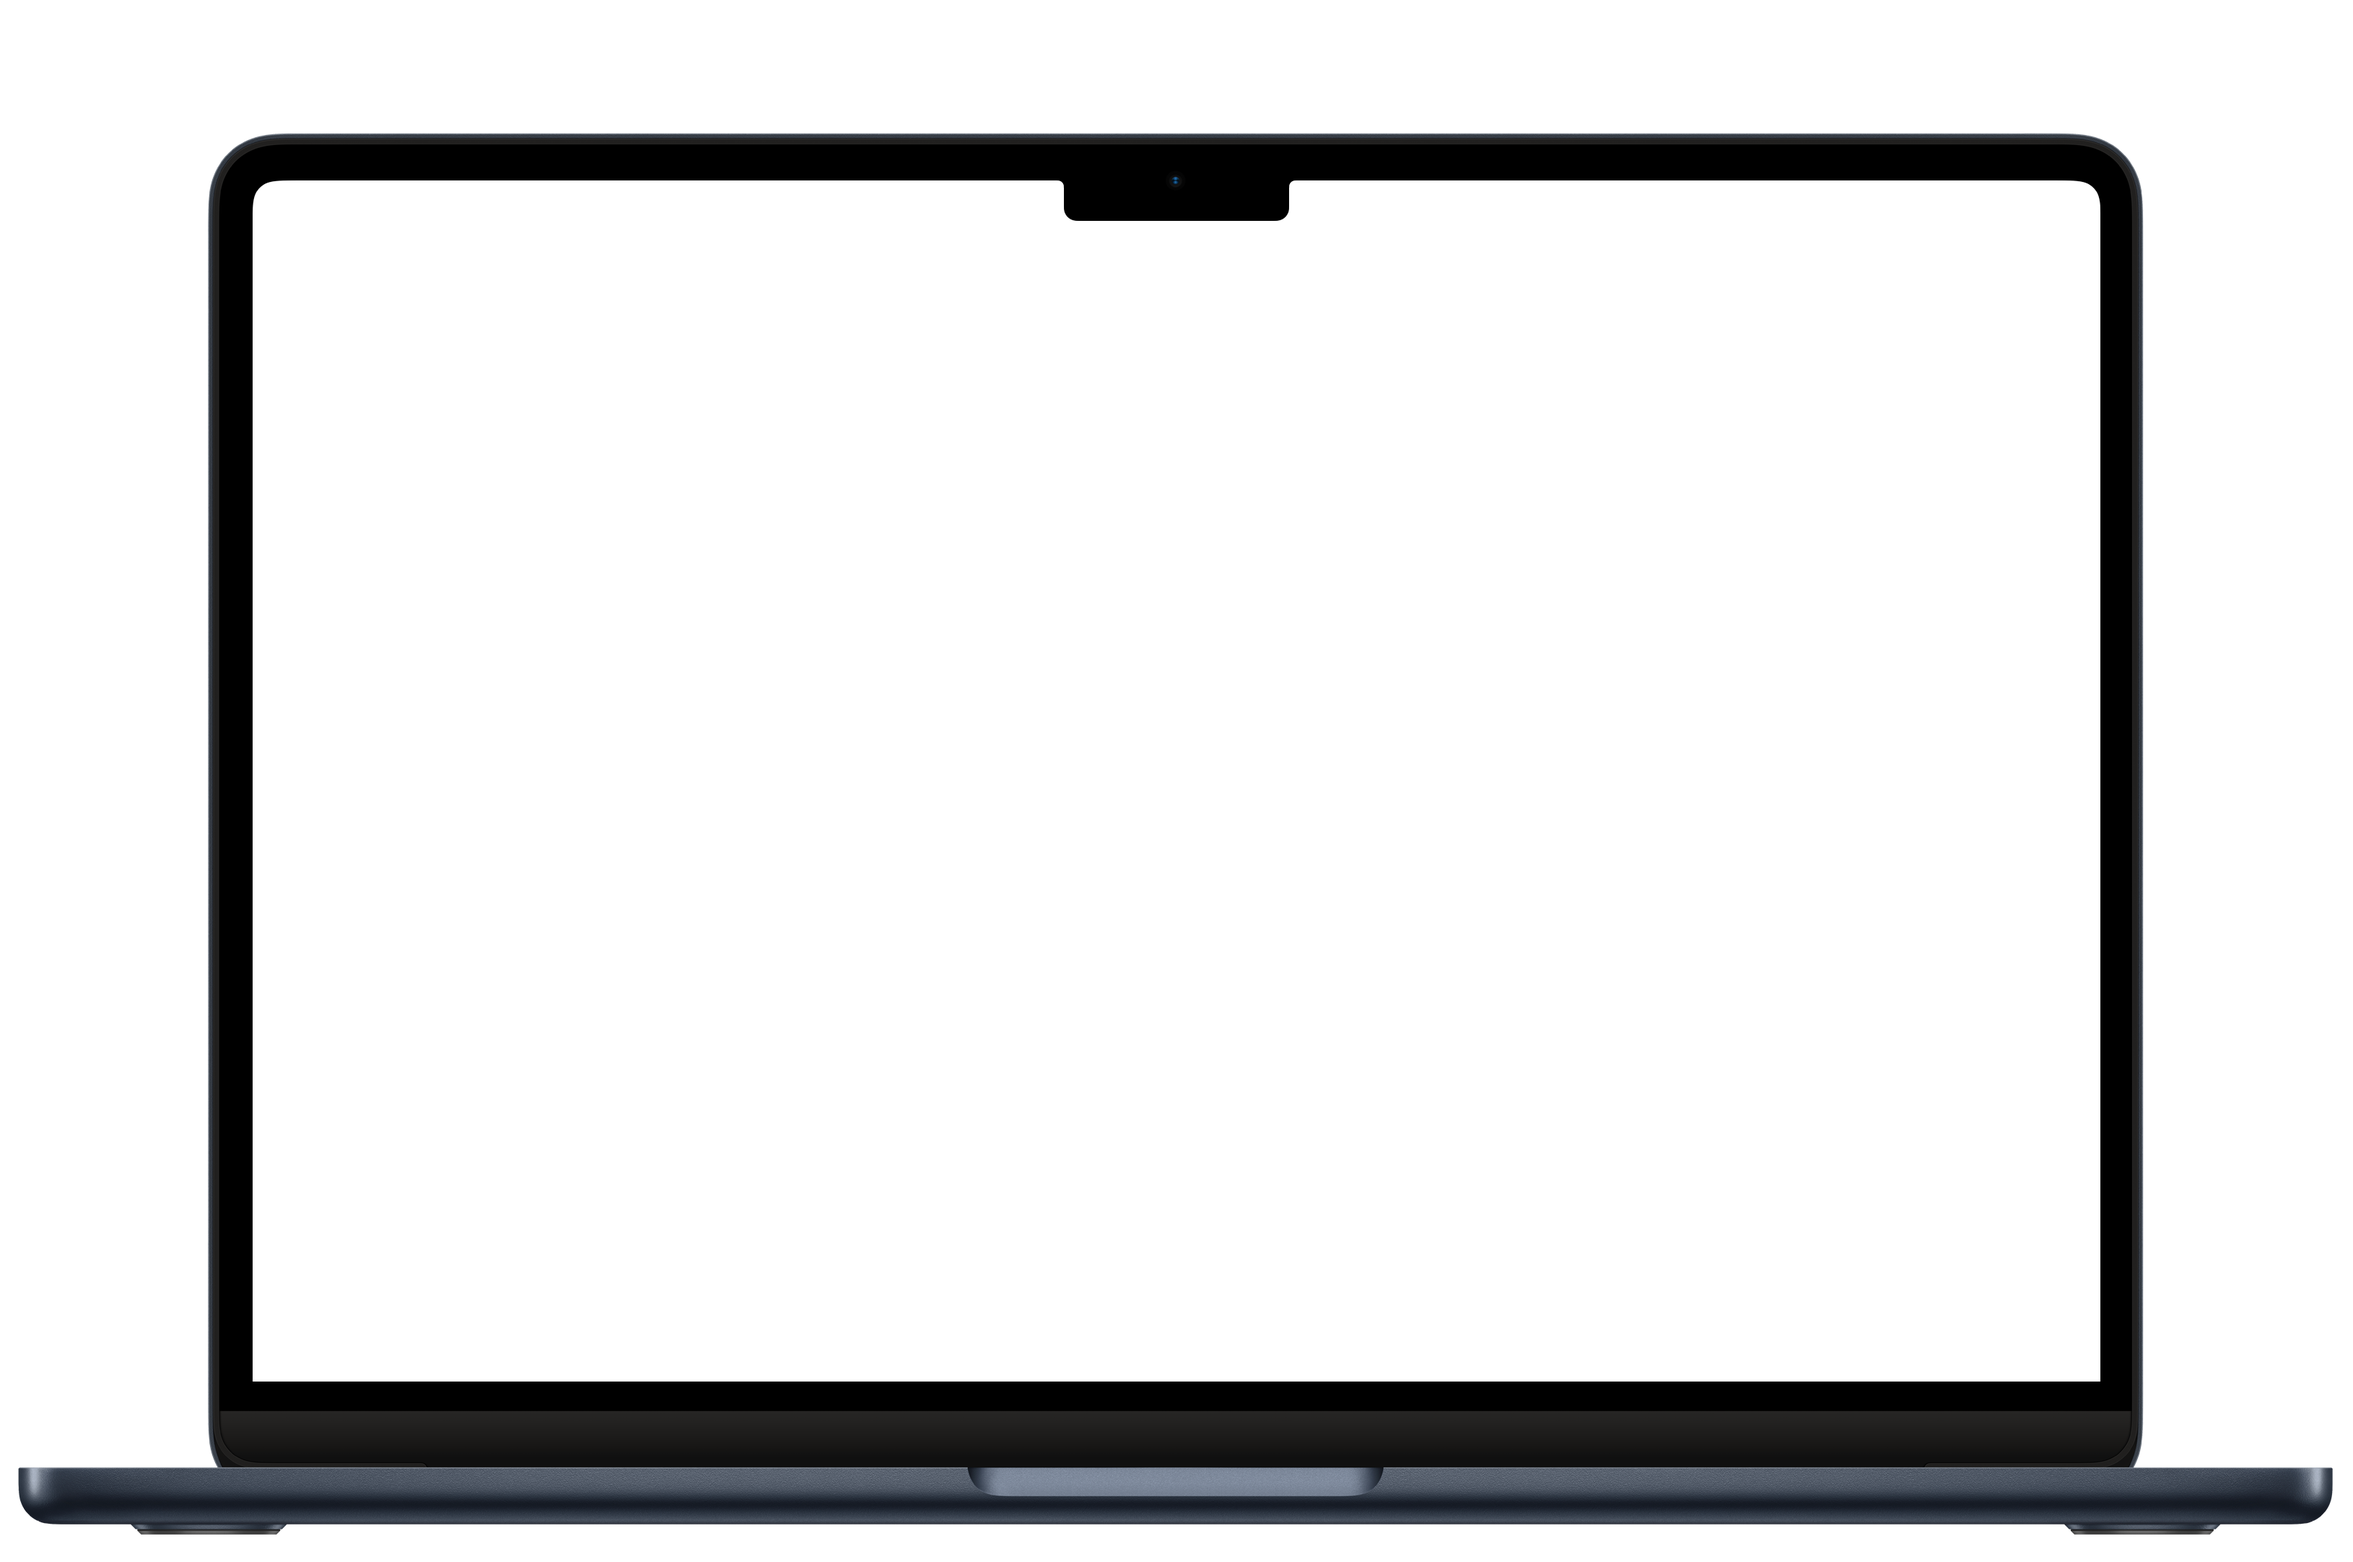
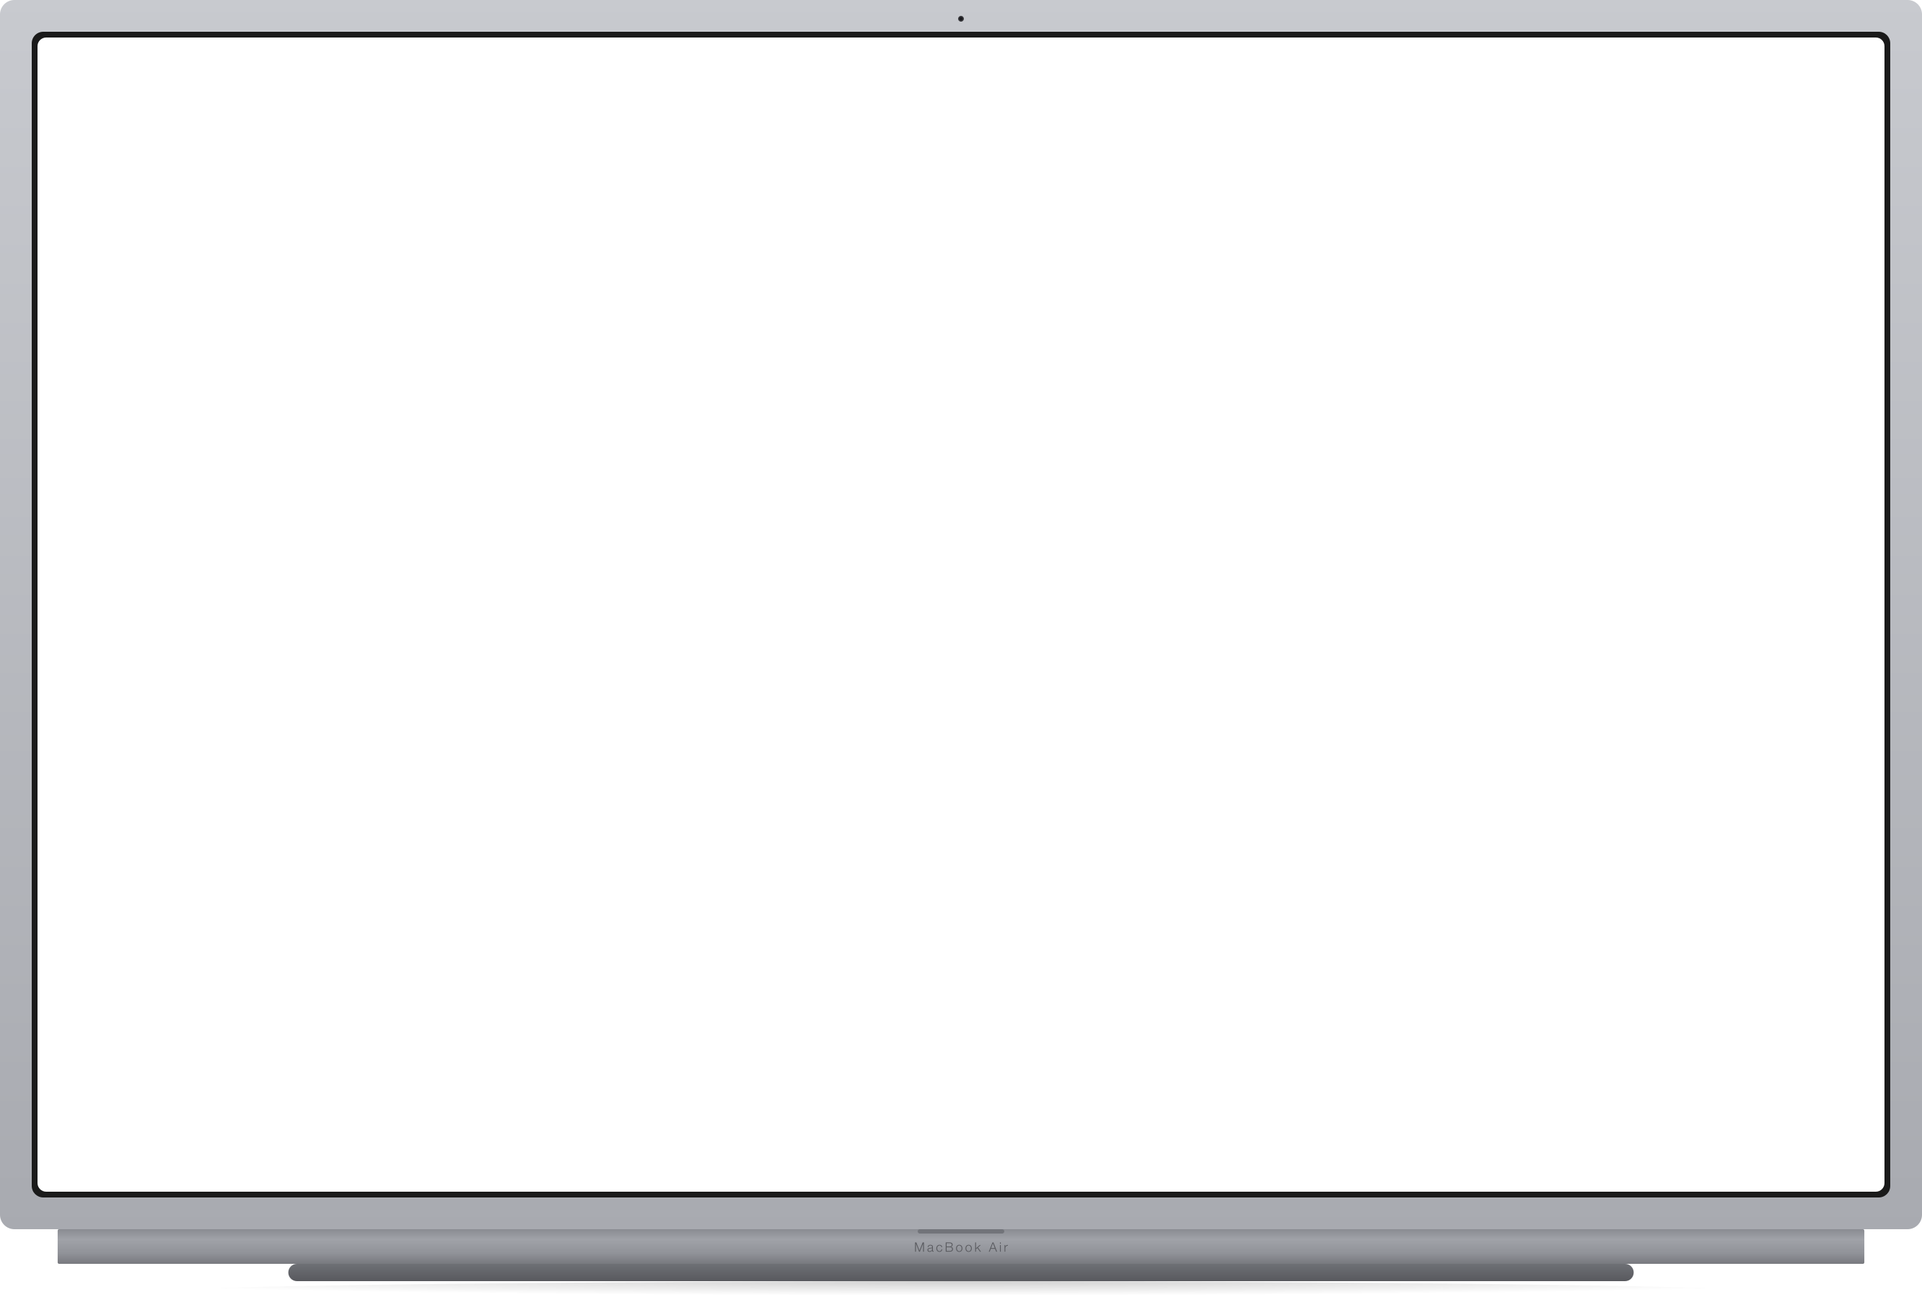
feat: nightly test runner, auto-restart, MacBook Air frame, screenshot fixes
- Add nightly-tests.sh cron (1am) to run all app test suites
- Auto-restart down apps every 30s in health check loop
- New MacBook Air frame for screenshot gallery
- Fix screenshot-bot null rules crash, add skip flag support
- Fix tools port (3001), rebuild master screenshot index
- Add camera icon to dashboard LAN column

Changed region(s): [[0.0, 0.0, 1.0, 0.9868]]

diff --git a/scripts/screenshot-bot.js b/scripts/screenshot-bot.js
@@ -66,8 +66,8 @@ const MACBOOK_FRAME= path.join(FRAMES_DIR, 'macbook.png');
 
 // iPhone 15 Pro Max frame: 1490x2996, screen area x=99 y=243 w=1290 h=2653
 const IPHONE_SCREEN = { x: 99, y: 243, w: 1290, h: 2653 };
-// MacBook Air 13 frame: 3260x2164, screen area x=350 y=306 w=2560 h=1608
-const MACBOOK_SCREEN = { x: 350, y: 306, w: 2560, h: 1608 };
+// MacBook Air frame: 2664x1816, screen area x=52 y=52 w=2560 h=1600
+const MACBOOK_SCREEN = { x: 52, y: 52, w: 2560, h: 1600 };
 
 async function addIPhoneFrame(inputPath, outputPath) {
   const { x, y, w, h } = IPHONE_SCREEN;
@@ -83,10 +83,25 @@ async function addIPhoneFrame(inputPath, outputPath) {
 
 async function addMacBookFrame(inputPath, outputPath) {
   const { x, y, w, h } = MACBOOK_SCREEN;
-  // Resize screenshot to fit screen area (cover from top)
-  const screen = await sharp(inputPath)
-    .resize(w, h, { fit: 'cover', position: 'top' })
-    .png().toBuffer();
+  const meta = await sharp(inputPath).metadata();
+  const srcW = meta.width, srcH = meta.height;
+  const frameAR = w / h;  // 16:10
+  const srcAR = srcW / srcH;
+
+  let screen;
+  if (srcAR >= frameAR) {
+    // Wider than frame — fit width, crop bottom if needed
+    screen = await sharp(inputPath)
+      .resize(w, h, { fit: 'cover', position: 'top' })
+      .png().toBuffer();
+  } else {
+    // Taller than frame (full-page scroll) — crop to frame AR from top, then resize
+    const cropH = Math.round(srcW / frameAR);
+    screen = await sharp(inputPath)
+      .extract({ left: 0, top: 0, width: srcW, height: Math.min(cropH, srcH) })
+      .resize(w, h, { fit: 'fill' })
+      .png().toBuffer();
+  }
 
   await sharp(MACBOOK_FRAME)
     .composite([{ input: screen, top: y, left: x }])
@@ -835,7 +850,7 @@ async function main() {
 
   const targetId = process.argv[2];
   const apps     = (targetId ? config.filter(a => a.id === targetId) : config)
-    .filter(a => a.localUrl && !a.noScreenshot);
+    .filter(a => a.localUrl && !a.noScreenshot && !(rules[a.id]?.skip));
 
   if (!apps.length) {
     console.error(targetId ? `App not found: ${targetId}` : 'No apps with localUrl');
@@ -853,16 +868,16 @@ async function main() {
   });
 
   for (const app of apps) {
-    await runApp(browser, app, creds[app.id] ?? null, rules[app.id] ?? null);
+    await runApp(browser, app, creds[app.id] ?? null, rules[app.id] ?? {});
   }
 
   await browser.close();
 
-  // write master index
-  const masterIndex = apps.map(a => {
-    const idxFile = path.join(OUT_DIR, a.id, 'index.json');
-    return fs.existsSync(idxFile) ? JSON.parse(fs.readFileSync(idxFile, 'utf8')) : { id: a.id };
-  });
+  // write master index — scan ALL app dirs, not just current run
+  const allDirs = fs.existsSync(OUT_DIR) ? fs.readdirSync(OUT_DIR).filter(d => fs.statSync(path.join(OUT_DIR, d)).isDirectory()) : [];
+  const masterIndex = allDirs
+    .map(d => { const f = path.join(OUT_DIR, d, 'index.json'); return fs.existsSync(f) ? JSON.parse(fs.readFileSync(f, 'utf8')) : null; })
+    .filter(Boolean);
   fs.writeFileSync(path.join(OUT_DIR, 'index.json'), JSON.stringify(masterIndex, null, 2));
 
   console.log('\n✓ All done\n');

diff --git a/public/index.html b/public/index.html
@@ -400,7 +400,7 @@ function renderTable() {
         </div>
       </td>
       <td style="text-align:center"><a href="${app.caddyUrl || app.localUrl || '#'}" target="_blank" onclick="event.stopPropagation()" style="color:var(--text);font-size:11px;text-decoration:none">${(app.caddyUrl || app.localUrl || '').replace(/^https?:\/\//, '') || '—'}</a></td>
-      <td class="lan-col" style="text-align:center"><a href="${app.lanUrl || app.localUrl || '#'}" target="_blank" onclick="event.stopPropagation()" style="color:var(--muted);font-size:11px;text-decoration:none">${(app.lanUrl || app.localUrl || '').replace(/^https?:\/\//, '') || '—'}</a></td>
+      <td class="lan-col" style="text-align:center"><a href="${app.lanUrl || app.localUrl || '#'}" target="_blank" onclick="event.stopPropagation()" style="color:var(--muted);font-size:11px;text-decoration:none">${(app.lanUrl || app.localUrl || '').replace(/^https?:\/\//, '') || '—'}</a> <a href="/gallery.html?app=${app.id}" onclick="event.stopPropagation()" title="Screenshots" style="text-decoration:none;font-size:12px;opacity:0.4;transition:opacity 0.15s" onmouseover="this.style.opacity='1'" onmouseout="this.style.opacity='0.4'">📷</a></td>
     </tr>`;
   }).join('');
 }

diff --git a/server.js b/server.js
@@ -8,7 +8,7 @@ const db = require('./db');
 
 const app = express();
 const PORT = 9876;
-const CHECK_INTERVAL = 10000;
+const CHECK_INTERVAL = 30000;
 const CADDYFILE = process.env.CADDYFILE || '/opt/homebrew/etc/Caddyfile';
 const CADDY_ERROR_ROOT = path.dirname(CADDYFILE);
 const NPM_PATH = (() => {
@@ -255,6 +255,18 @@ async function checkAll() {
       s.status = newStatus;
       broadcast({ type: 'update', id: appCfg.id, status: newStatus });
       if (newStatus === 'down') broadcast({ type: 'alert', id: appCfg.id, name: appCfg.name });
+    }
+
+    // Auto-restart: if down and has a launchAgent, try to restart
+    if (newStatus === 'down' && (appCfg.launchAgentPath || appCfg.launchAgent)) {
+      try {
+        if (appCfg.launchAgentPath) {
+          execSync(`launchctl load -w "${appCfg.launchAgentPath}" 2>/dev/null || launchctl start "${appCfg.launchAgent}" 2>/dev/null || true`);
+        } else {
+          execSync(`launchctl start "${appCfg.launchAgent}" 2>/dev/null || true`);
+        }
+        console.log(`  ↻ auto-restart: ${appCfg.id}`);
+      } catch {}
     }
   }
 }
